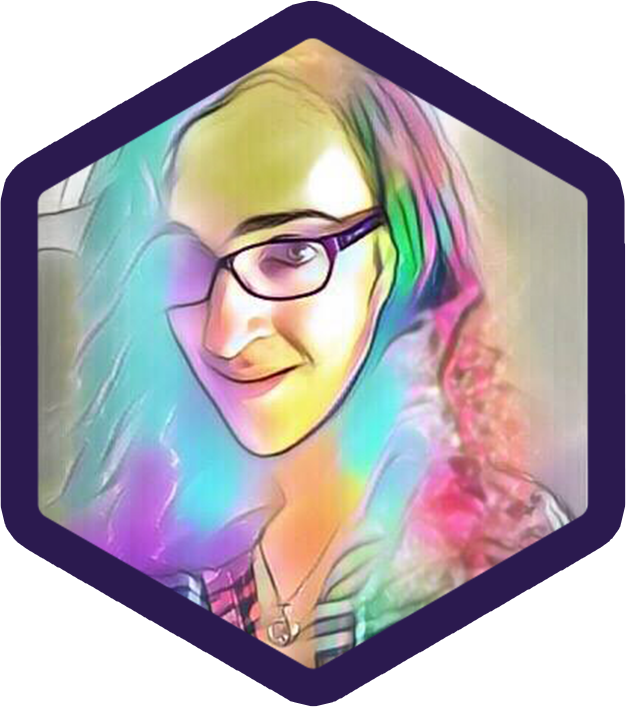
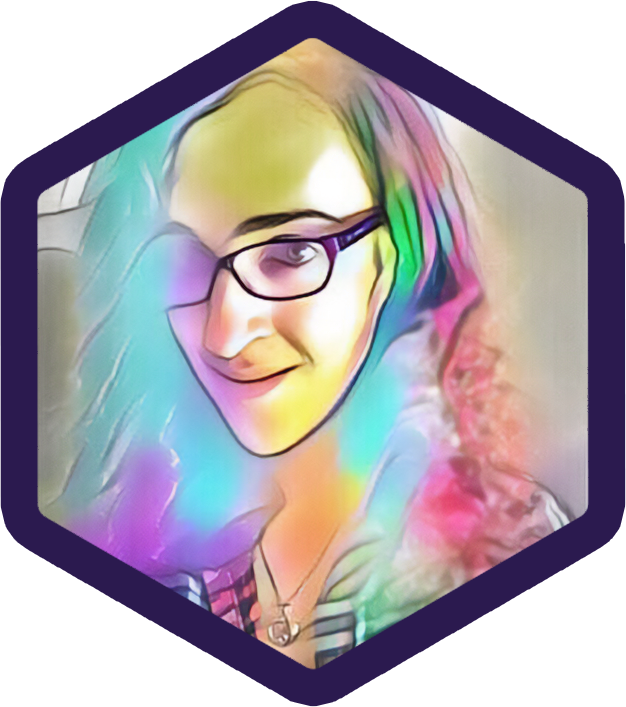
lay groundwork for projects & hobbies sections, including images & updated headshot

Changed region(s): [[0.6677, 0.3423, 0.6981, 0.3734], [0.6374, 0.3112, 0.6677, 0.3423], [0.5463, 0.3112, 0.5767, 0.3423]]

diff --git a/src/index.html b/src/index.html
@@ -76,12 +76,42 @@
 
         <div id="projects" class="page blue">
             <div class="page-header">Side projects</div>
-            <div class="page-content"></div>
+            <div>
+                <iframe id="maze-generator" class="external-project" src="https://elanabellbogdan.com/mazer-3d"></iframe>
+            </div>
         </div>
 
         <div id="hobbies" class="page yellow">
             <div class="page-header">Hobbies</div>
-            <div class="page-content"></div>
+            <div class="decal-gallery">
+                <div class="decal-wrapper">
+                    <img width="400px" src="./img/elana_flute.png" class="decal">
+                    <div class="decal-info shaded-blur">
+                        <div class="decal-title stroked-text">Music</div>
+                        <div class="decal-description">
+                            A lot of text here about how much I love my hobbies! A lot of text here about how much I love my hobbies! A lot of text here about how much I love my hobbies!
+                        </div>
+                    </div>
+                </div>
+                <div class="decal-wrapper">
+                    <img width="300px" src="./img/elana_juggle.png" class="decal">
+                    <div class="decal-info shaded-blur">
+                        <div class="decal-title stroked-text">Juggling</div>
+                        <div class="decal-description">
+                            A lot of text here about how much I love my hobbies! A lot of text here about how much I love my hobbies! A lot of text here about how much I love my hobbies!
+                        </div>
+                    </div>
+                </div>
+                <div class="decal-wrapper">
+                    <img width="475px" src="./img/elana_photo.png" class="decal">
+                    <div class="decal-info shaded-blur">
+                        <div class="decal-title stroked-text">Photo & Video</div>
+                        <div class="decal-description">
+                            A lot of text here about how much I love my hobbies! A lot of text here about how much I love my hobbies! A lot of text here about how much I love my hobbies!
+                        </div>
+                    </div>
+                </div>
+            </div>
         </div>
     </div>
 

diff --git a/src/index.less b/src/index.less
@@ -319,3 +319,69 @@ body {
 .gray {
     .color-class(@gray);
 }
+
+.external-project {
+    display: block;
+    margin: 0 auto;
+
+    border: none;
+
+    width: 80%;
+    height: 35em;
+
+    border-radius: @borderRadius;
+    box-shadow: 0 0 1em fade(black, 40%);
+}
+
+.decal-gallery {
+    display: flex;
+    justify-content: space-around;
+    align-items: center;
+    flex-wrap: wrap;
+
+    margin-top: 2em;
+
+    .decal-wrapper {
+        position: relative;
+
+        .decal-info {
+            opacity: 0;
+            transition: .5s opacity;
+
+            position: absolute;
+            top: 50%;
+            transform: translateY(-50%);
+
+            padding: 2.3em 1.5em;
+            border-radius: @borderRadius;
+
+            margin: 0 -2em;
+
+            .decal-title {
+                font-size: 1.5em;
+                font-weight: 600;
+                margin-bottom: .7em;
+            }
+
+            .decal-description {
+                font-family: 'Nunito', sans-serif;
+                font-size: 1.15em;
+                line-height: 1.5em;
+                text-shadow: .03em .03em .1em fade(black, 60%);
+            }
+        }
+
+        &:hover {
+            cursor: pointer;
+
+            .decal {
+                filter: contrast(0) sepia(1) hue-rotate(-342deg) saturate(2) brightness(0.6); // Manually adjust based on page color; currently configured for yellow
+                // [Alternative option: purple / @bgColor overlay] contrast(0) sepia(1) hue-rotate(-150deg) saturate(8) brightness(.35);
+            }
+
+            .decal-info {
+                opacity: 1;
+            }
+        }
+    }
+}
